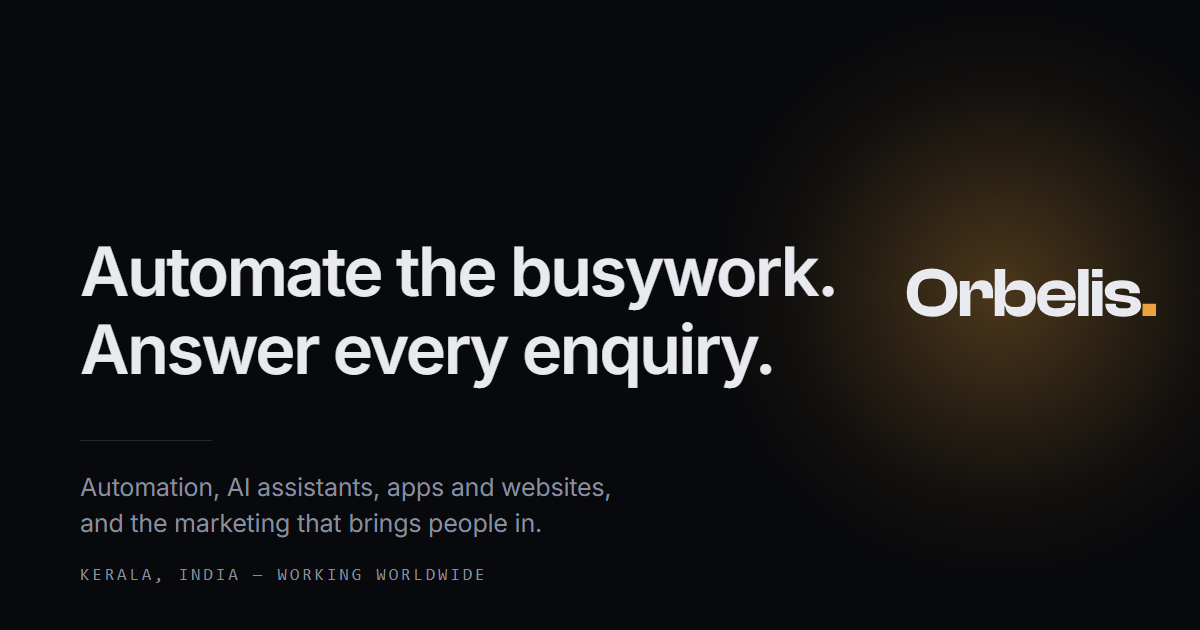
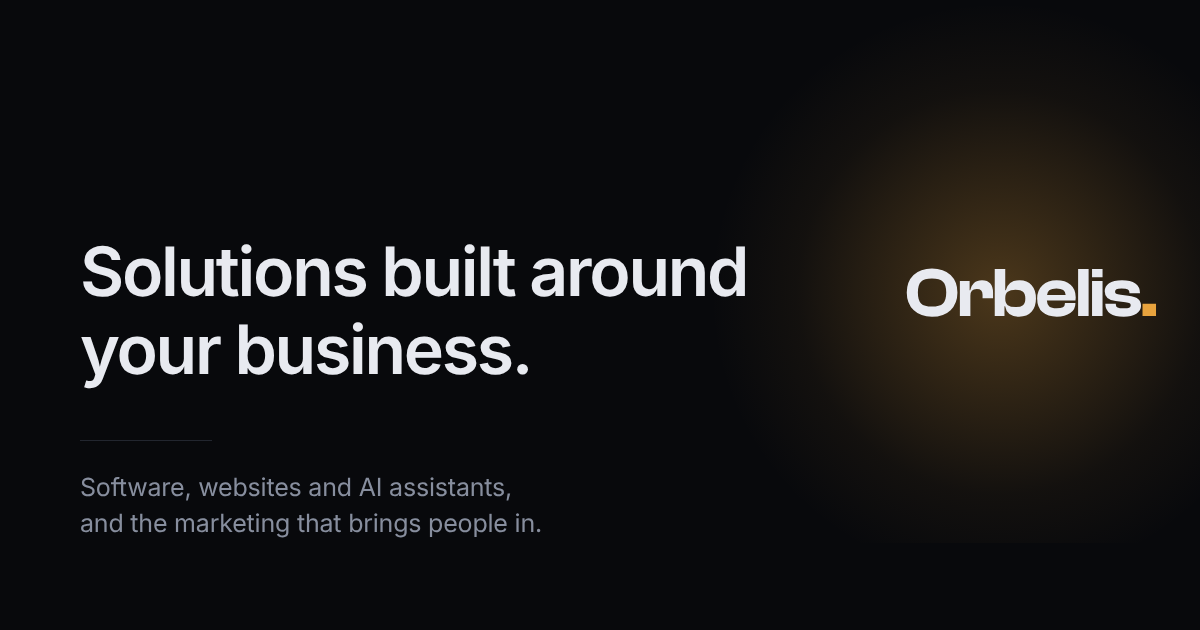
feat: new headline, "Solutions built around your business"
The studio builds whatever solves the problem, so no single service leads.
The hero, tab title, search and share previews, manifest, structured data
and the assistant's description of the studio all carry the new line, and
the share image is redrawn to match.

diff --git a/index.html b/index.html
@@ -3,10 +3,10 @@
   <head>
     <meta charset="UTF-8" />
     <meta name="viewport" content="width=device-width, initial-scale=1.0" />
-    <title>Orbelis Studio — Automate the busywork. Answer every enquiry.</title>
+    <title>Orbelis Studio — Solutions built around your business.</title>
     <meta
       name="description"
-      content="Orbelis Studio automates the repetitive work in a business, adds an AI assistant that answers from your own content, builds the web applications and fast websites they run on, and runs the ads, SEO and social media that bring people in. Kerala-based, working with brands, clinics, institutions and founders."
+      content="Orbelis Studio builds solutions around your business: SaaS and web applications, fast websites, brand and product design, AI assistants and automation, and the ads, SEO and social media that bring people in. Founder-led from Kerala, working with brands, clinics, institutions and founders."
     />
     <meta name="theme-color" content="#08090c" />
     <!--
@@ -38,23 +38,23 @@
     <meta property="og:type" content="website" />
     <meta property="og:url" content="https://orbelisstudio.com/" />
     <meta property="og:site_name" content="Orbelis Studio" />
-    <meta property="og:title" content="Orbelis Studio — Automate the busywork. Answer every enquiry." />
+    <meta property="og:title" content="Orbelis Studio — Solutions built around your business." />
     <meta
       property="og:description"
-      content="Business automation, AI assistants, SaaS and web applications, fast websites, and the marketing that brings people to them. Founder-led, from Kerala."
+      content="Software, websites, AI and marketing, designed around how your business works. Founder-led, from Kerala."
     />
     <!-- Regenerate with `npm run og` after editing public/og.svg. -->
     <meta property="og:image" content="https://orbelisstudio.com/og.png" />
     <meta property="og:image:width" content="1200" />
     <meta property="og:image:height" content="630" />
-    <meta property="og:image:alt" content="Orbelis Studio — Automate the busywork. Answer every enquiry." />
+    <meta property="og:image:alt" content="Orbelis Studio — Solutions built around your business." />
     <meta property="og:locale" content="en_IN" />
 
     <meta name="twitter:card" content="summary_large_image" />
-    <meta name="twitter:title" content="Orbelis Studio — Automate the busywork. Answer every enquiry." />
+    <meta name="twitter:title" content="Orbelis Studio — Solutions built around your business." />
     <meta
       name="twitter:description"
-      content="Automation, AI assistants, web apps, websites and marketing, from a founder-led studio."
+      content="Software, websites, AI and marketing, built around your business by a founder-led studio."
     />
     <meta name="twitter:image" content="https://orbelisstudio.com/og.png" />
 

diff --git a/src/sections/Hero.jsx b/src/sections/Hero.jsx
@@ -6,9 +6,9 @@ import HeroPanel from '../components/HeroPanel.jsx'
  * product at work beneath them. Text-led on purpose: the statement gets the
  * first screen to itself.
  *
- * The headline is the outcome, not the service list, and automation comes
- * first: a visitor does not want "a website and an assistant", they want the
- * retyping gone and the enquiry that came in at night answered.
+ * The headline is the promise, not the service list: the studio builds
+ * whatever solves the problem, so no single service leads. The line under it
+ * names the kinds of solution, so the promise is never left vague.
  *
  * The lines arrive in reading order, a beat apart (`rise` in index.css, timed
  * by `--d`). It is an entrance, not a reveal: the text is in the markup from
@@ -21,22 +21,22 @@ export default function Hero() {
     <section id="top" className="tile overflow-hidden">
       <div className="container-x pb-20 pt-32 text-center md:pb-28 md:pt-44">
         <p className="rise eyebrow" style={delay(0)}>
-          {brand.full} · Automation, AI, apps, websites, marketing
+          {brand.full} · Software, websites, AI, marketing
         </p>
 
         <h1
           className="rise mx-auto mt-4 max-w-4xl text-[clamp(30px,8.4vw,40px)] font-semibold leading-[1.04] tracking-[-0.035em] [text-wrap:balance] md:text-[72px] lg:text-[80px]"
           style={delay(80)}
         >
-          Automate the busywork. <span className="block text-muted">Answer every enquiry.</span>
+          Solutions built <span className="block text-muted">around your business.</span>
         </h1>
 
         <p
           className="rise mx-auto mt-6 max-w-2xl text-lg leading-snug text-muted [text-wrap:balance] md:text-2xl md:leading-[1.3]"
           style={delay(180)}
         >
-          I automate the repetitive work between your tools, add an assistant that replies from your own
-          information, build the apps and websites they run on, and run the marketing that brings people in.
+          Software, websites, AI and marketing, designed for how you actually work. Tell me the problem and
+          I build what solves it, from what if to live.
         </p>
 
         <div className="rise mt-9 flex flex-wrap items-center justify-center gap-3" style={delay(280)}>

diff --git a/src/lib/assistant/corpus.js b/src/lib/assistant/corpus.js
@@ -39,7 +39,7 @@ export const passages = [
     section: 'Studio',
     title: brand.full,
     href: '#top',
-    text: `${brand.full}. ${brand.tagline} A founder-led studio that automates the repetitive work in a business, adds an AI assistant that answers from the client's own content, builds SaaS products, web applications and the fast website they run on, designs the brand, and runs the marketing that brings people to it (Meta and Google ads, SEO, social media and creative design), based in ${brand.location}.`,
+    text: `${brand.full}. ${brand.tagline} A founder-led studio that builds the solution a business needs: SaaS products and web applications, fast websites, brand identity and UI/UX design, AI assistants that answer from the client's own content, automation of repetitive work, and the marketing that brings people to it (Meta and Google ads, SEO, social media and creative design), based in ${brand.location}.`,
     keywords: 'orbelis studio who what about intro name based located kerala india where offer',
   },
   {

diff --git a/src/lib/seo.js b/src/lib/seo.js
@@ -25,7 +25,7 @@ function graph() {
         '@type': 'ProfessionalService',
         '@id': `${brand.url}/#studio`,
         name: brand.full,
-        description: `${brand.tagline} Business automation, an AI assistant that answers from your own content, SaaS and web applications, fast websites, and the ads, SEO and social media that bring people to them.`,
+        description: `${brand.tagline} SaaS and web applications, fast websites, brand and product design, AI assistants and business automation, and the ads, SEO and social media that bring people in.`,
         url: brand.url,
         email: brand.email,
         // Unset fields are left out entirely: a null or placeholder value in

diff --git a/src/data/site.js b/src/data/site.js
@@ -15,7 +15,7 @@ export const brand = {
   name: 'Orbelis',
   suffix: 'Studio',
   full: 'Orbelis Studio',
-  tagline: 'Automate the busywork. Answer every enquiry.',
+  tagline: 'Solutions built around your business.',
   email: 'hello@orbelisstudio.com',
   /**
    * Phone, WhatsApp, street and social links are null until the real value
